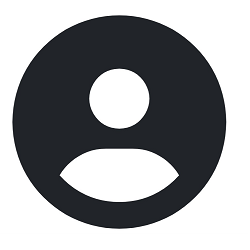
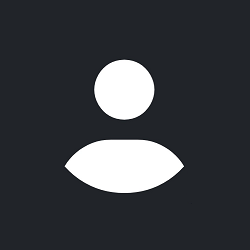
Modification du photo de profil d'un utilisateur

diff --git a/web/css/profil.css b/web/css/profil.css
@@ -34,7 +34,7 @@ input:focus {
     border-radius: 50%;
     position: relative; 
     top: 170px; 
-    right: 60px;
+    right: 40px;
 }
 
 @media screen and (max-width: 992px) {

diff --git a/src/java/com/clavardage/servlets/ModificationPhoto.java b/src/java/com/clavardage/servlets/ModificationPhoto.java
@@ -1,0 +1,82 @@
+package com.clavardage.servlets;
+
+import com.clavardage.beans.Utilisateur;
+import com.clavardage.dao.UtilisateurDAO;
+
+import javax.servlet.ServletException;
+import javax.servlet.http.*;
+import java.io.File;
+import java.io.IOException;
+import java.nio.file.Paths;
+
+public class ModificationPhoto extends HttpServlet 
+{
+
+    private static final String UPLOAD_DIR = "uploads";
+
+    @Override
+    protected void doPost(HttpServletRequest request, HttpServletResponse response) throws ServletException, IOException 
+    {
+        request.setCharacterEncoding("UTF-8");
+
+        HttpSession session = request.getSession();
+        Utilisateur utilisateur = (Utilisateur) session.getAttribute("utilisateurConnecte");
+
+        if (utilisateur == null) {
+            response.sendRedirect(request.getContextPath() + "/connexion");
+            return;
+        }
+
+        Part filePart = request.getPart("photo_profil");
+
+        String photoProfilPath = handleFileUpload(filePart, getServletContext().getRealPath(""));
+
+        if (photoProfilPath != null) 
+        {
+            utilisateur.setPhoto_profil(photoProfilPath);
+
+            try 
+            {
+                new UtilisateurDAO().updateUtilisateur(utilisateur);
+                response.sendRedirect(request.getContextPath() + "/membres/profil");
+            } 
+            catch (Exception e) 
+            {
+                e.printStackTrace();
+            }
+        } 
+        else 
+        {
+            System.out.println("Aucune photo téléchargée.");
+        }
+    }
+
+    /**
+     * Gérer l'upload de la photo et renvoyer le chemin relatif de la photo.
+     */
+    private String handleFileUpload(Part filePart, String applicationPath) throws IOException 
+    {
+        if (filePart == null || filePart.getSubmittedFileName().isEmpty()) 
+        {
+            return null; // Si aucun fichier n'est sélectionné, retourner null
+        }
+
+        String fileName = Paths.get(filePart.getSubmittedFileName()).getFileName().toString();
+        String uploadPath = applicationPath + File.separator + UPLOAD_DIR;
+
+        // Créer le dossier de destination s'il n'existe pas
+        File uploadDir = new File(uploadPath);
+        if (!uploadDir.exists() && !uploadDir.mkdirs())
+        {
+            System.err.println("Erreur : Impossible de créer le dossier d'upload.");
+            return null;
+        }
+
+        // Sauvegarder le fichier sur le serveur
+        String filePath = uploadPath + File.separator + fileName;
+        filePart.write(filePath);
+
+        // Retourner le chemin relatif pour stocker dans la base de données
+        return UPLOAD_DIR + "/" + fileName;
+    }
+}
